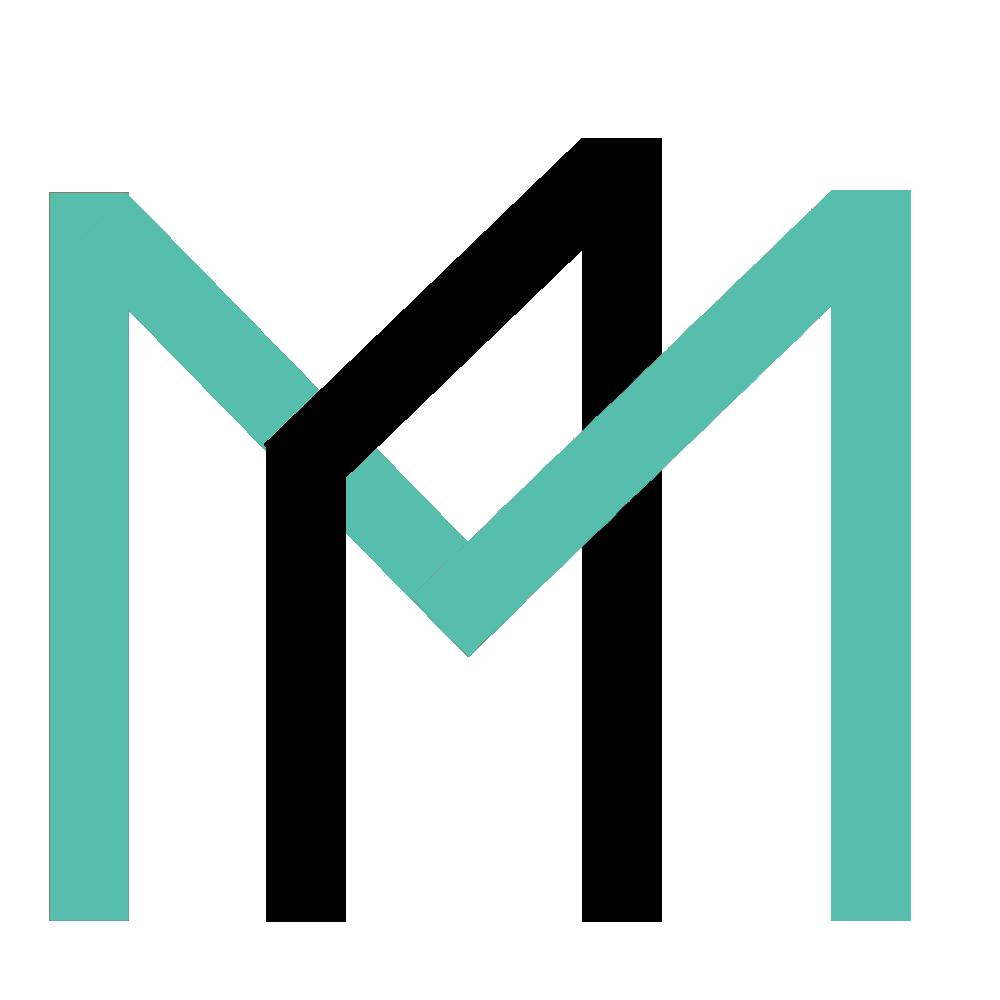
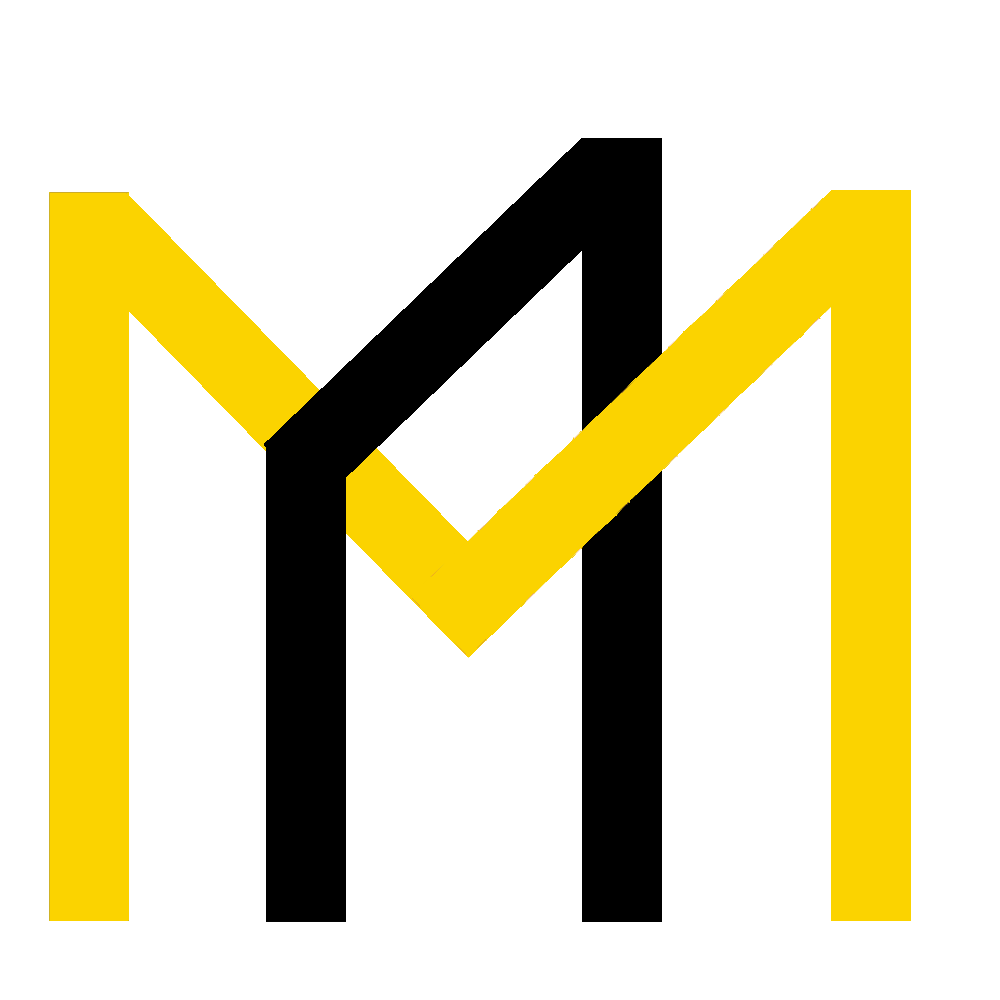
Change Website theme

Changed region(s): [[0.341, 0.186, 0.93, 0.93], [0.031, 0.186, 0.31, 0.93]]

diff --git a/client/directives/nav-bar/nav-bar.html b/client/directives/nav-bar/nav-bar.html
@@ -13,12 +13,12 @@
           <div class="row-fluid">
             <div class="navbar-header col-md-8 col-xs-12 col-sm-12">
               <button type="button" class="navbar-toggle collapsed" data-toggle="collapse" data-target="#navbar" aria-expanded="false" aria-controls="navbar" style="background-color:#57bdad">
-                <span class="icon-bar" style="background-color: #f9f9fa"></span>
-                <span class="icon-bar" style="background-color: #f9f9fa"></span>
-                <span class="icon-bar" style="background-color: #f9f9fa"></span>
+                <span class="icon-bar" style="background-color: #fbd300"></span>
+                <span class="icon-bar" style="background-color: #fbd300"></span>
+                <span class="icon-bar" style="background-color: #fbd300"></span>
               </button>
 
-              <a class="navbar-brand col-md-2" href="/" style="color:#57bdad; width:180px; padding-top:17px; padding-bottom:17px;"><img src="../image/MostMark.png" style="width:40px;height:40px;margin-right:10px; display:inline-block;">MostMark</a>
+              <a class="navbar-brand col-md-2" href="/" style="color:#fbd300; width:180px; padding-top:17px; padding-bottom:17px;"><img src="../image/MostMark.png" style="width:40px;height:40px;margin-right:10px; display:inline-block;">MostMark</a>
               <div class="col-xs-12 col-sm-12 col-md-8 pull-right" style="padding-top:10px; padding-bottom:10px;">
                <form class="navbar-form" role="search">
                  <div class="input-group" style="width:100%">
@@ -34,26 +34,26 @@
             <div id="navbar" class="navbar-collapse collapse" style="float:left; margin-right:55px">
               <div class="nav navbar-nav">
                 <!-- Dropdown utilities menu -->
-                <li ng-show="!Auth.isLogged()"><a href="/package" style="color:#57bdad">Packages</a></li>
+                <li ng-show="!Auth.isLogged()"><a href="/package" style="color:#fbd300; padding-top:25px; padding-bottom:25px;">Packages</a></li>
                 <li class="dropdown" ng-show="Auth.isLogged()">
-                  <a class="dropdown-toggle" href="#" data-toggle="dropdown" style="color:#57bdad;text-align:center;"><img src="../image/more.png" class="more-info-button"></a>
+                  <a class="dropdown-toggle" href="#" data-toggle="dropdown" style="color:#fbd300;text-align:center;"><img src="../image/more.png" class="more-info-button"></a>
                   <ul class="dropdown-menu" style="width:300px;">
                    <!-- User function -->
                    <!-- first row -->
                     <div class="col-xs-4 col-sm-4 col-md-4 user-function-last">
-                      <a href="/package">
+                      <a href="/package" style="color:black">
                         <img src="../image/globe.png" class="more-function">
                         <p>Packages</p>
                       </a>
                     </div>
                     <div class="col-xs-4 col-sm-4 col-md-4 user-function">
-                      <a href="/package/create">
+                      <a href="/package/create" style="color:black">
                         <img src="../image/plus.png" class="more-function">
                         <p>Create Packages</p>
                       </a>
                     </div>
                     <div class="col-xs-4 col-sm-4 col-md-4 user-function">
-                      <a href="/compare">
+                      <a href="/compare" style="color:black">
                         <img src="../image/compare.png" class="more-function">
                         <p>Compare Packages</p>
                       </a>
@@ -62,26 +62,26 @@
                       <li role="separator" class="divider"></li>
                     </div>
                     <div class="col-xs-4 col-sm-4 col-md-4 user-function">
-                      <a href="/my-package">
+                      <a href="/my-package" style="color:black">
                         <img src="../image/suitcase_travel.png" class="more-function">
                         <p>My Packages</p>
                       </a>
                     </div>
                     <div class="col-xs-4 col-sm-4 col-md-4 user-function">
-                      <a href="/my-bookmark">
+                      <a href="/my-bookmark" style="color:black">
                         <img src="../image/myBookmark.png" class="more-function">
                         <p>My Bookmarks</p>
                       </a>
                     </div>
                     <!-- second row -->
                     <div class="col-xs-4 col-sm-4 col-md-4 user-function-last">
-                      <a href="/shopping-cart">
+                      <a href="/shopping-cart" style="color:black">
                         <img src="../image/cart.png" class="more-function">
                         <p>My Cart</p>
                       </a>
                     </div>
                     <div class="col-xs-4 col-sm-4 col-md-4 user-function-last">
-                      <a href="#">
+                      <a href="#" style="color:black">
                         <img src="../image/receipt.png" class="more-function">
                         <p>My Receipts</p>
                       </a>
@@ -95,15 +95,15 @@
                 </li>
                 <!-- Dropdown SignIn/SignUp menu -->
                 <li class="dropdown" ng-show="!Auth.isLogged()">
-                  <a href="#"data-toggle="dropdown" role="button" aria-haspopup="true" aria-expanded="false" style="color:#57bdad">Sign In <span class="caret"></span></a>
+                  <a href="#"data-toggle="dropdown" role="button" aria-haspopup="true" aria-expanded="false" style="color:#fbd300; padding-top:25px; padding-bottom:25px;">Sign In <span class="caret"></span></a>
                   <ul class="dropdown-menu">
-                    <li><a ng-click="openLogin()" style="color:#57bdad">Sign In</a></li>
-                    <li><a ng-click="openSignup()" style="color:#57bdad">Sign Up</a></li>
+                    <li><a ng-click="openLogin()" style="color:#fbd300">Sign In</a></li>
+                    <li><a ng-click="openSignup()" style="color:#fbd300">Sign Up</a></li>
                   </ul>
                 </li>
                 <!-- Dropdown User Menu -->
                 <li class="dropdown" ng-if="Auth.isLogged()">
-                  <a class="dropdown-toggle" href="#"data-toggle="dropdown" role="button" aria-haspopup="true" aria-expanded="false" style="color: #57bdad; top: 0px; padding-top: 15px; padding-bottom: 15px;"><img class="nav-small-profile-image-style" ng-src=api/images/{{user.image}}></img>  {{user.first_name}} <span class="caret"></span></a>
+                  <a class="dropdown-toggle" href="#"data-toggle="dropdown" role="button" aria-haspopup="true" aria-expanded="false" style="color: #fbd300; top: 0px; padding-top: 15px; padding-bottom: 15px;"><img class="nav-small-profile-image-style" ng-src=api/images/{{user.image}}></img>  {{user.first_name}} <span class="caret"></span></a>
                   <ul class="col-xs-12 col-sm-12 col-md-6 dropdown-menu" style="padding-top:15px; width:300px; padding-bottom:0px; background-color:#fff; border-radius:0px;">
                     <!-- Profile Picture -->
                     <div class="col-xs-5 col-sm-5 col-md-5" style="text-align:center; background-color:white;">

diff --git a/client/views/package/package.scss b/client/views/package/package.scss
@@ -73,7 +73,7 @@
 }
 
 .package-style{
-    background-color:rgba(0,0,0,0.65);
+    background-color:rgba(0,0,0,0.85);
     padding-bottom:5%;
     height:440px;
     box-shadow: 5px 0 7px rgba(0, 0, 0, 0.35);
@@ -111,19 +111,14 @@
     height: 250px;
 }
 .package-footer-style{
-    background-color:rgba(0,0,0,0.65);
+    background-color:rgba(0,0,0,0.85);
     padding-top:10px; 
     padding-bottom:10px;
     color: #b3b3b3; 
     height: 40px;
     box-shadow: 5px 0 7px rgba(0, 0, 0, 0.35);
 }
-// .text-overflow{
-//     white-space: nowrap;
-//     width:10em; 
-//     overflow:hidden; 
-//     text-overflow: ellipsis;    
-// } 
+  
 .package-header-overflow{
    overflow: hidden;
    color:white;

diff --git a/client/views/package/package.html b/client/views/package/package.html
@@ -69,7 +69,7 @@
 
 			<div class="col-xs-12 col-sm-12  col-md-9" style="padding-left:0px; padding-right:0px;" ng-show="loading">
 				<!-- Packages -->
-				<div style="background-image:url('../../image/package-background.png'); padding-top:5%; padding-bottom:15%; padding-left:15px; padding-right:15px;">		
+				<div style="background-image:url('../../image/main-background.png'); padding-top:5%; padding-bottom:15%; padding-left:15px; padding-right:15px;">		
 						<div class="row">
 							<div ng-repeat="package in packages">
 								<!-- Package -->

diff --git a/client/views/my-package/my-package.html b/client/views/my-package/my-package.html
@@ -6,7 +6,7 @@
 		<meta name="viewport" content="width=device-width, initial-scale=1.0">
 	</head>
 	<body>
-		<div class="container-fluid center-picture" style="background-image:url('../../image/my-package-background.png'); padding-bottom:50px;">
+		<div class="container-fluid center-picture" style="background-image:url('../../image/main-background.png'); padding-bottom:50px;">
 			<!-- blank div for make vertical space -->
 			<div class="container" style="margin-top:70px">
 			</div>

diff --git a/client/views/compare/compare.html b/client/views/compare/compare.html
@@ -6,7 +6,7 @@
 		<meta name="viewport" content="width=device-width, initial-scale=1.0">
 	</head>
 	<body>
-		<div class="container-fluid center-picture" style="background-image:url('../../image/bookmark-background.png');padding-bottom:50px;">
+		<div class="container-fluid center-picture" style="background-image:url('../../image/main-background.png');padding-bottom:50px;">
 			<!-- blank div for make vertical space -->
 			<div class="container" style="margin-top:70px">
 			</div>

diff --git a/client/views/my-bookmark/my-bookmark.html b/client/views/my-bookmark/my-bookmark.html
@@ -13,7 +13,7 @@
 			<!-- Bookmark Header -->
 			<div class="container">
 				<div class="col-xs-12 col-sm-12 col-md-12">
-					<p class="bookmark-header-size" style=" text-align:center;">Bookmark</p>
+					<p class="bookmark-header-size" style=" text-align:center; ">Bookmark</p>
 				</div>
 			</div>	
 

diff --git a/client/views/my-package/my-package.scss b/client/views/my-package/my-package.scss
@@ -3,10 +3,9 @@
  */
  .my-package-header-size{
  	font-size: 37px;
- 	color: white;
  }
 .my-package-style{
-	background-color:rgba(0,0,0,0.65);
+	background-color:rgba(0,0,0,0.85);
     padding-bottom:5%;
     height:440px;
     box-shadow: 5px 0 7px rgba(0, 0, 0, 0.35);
